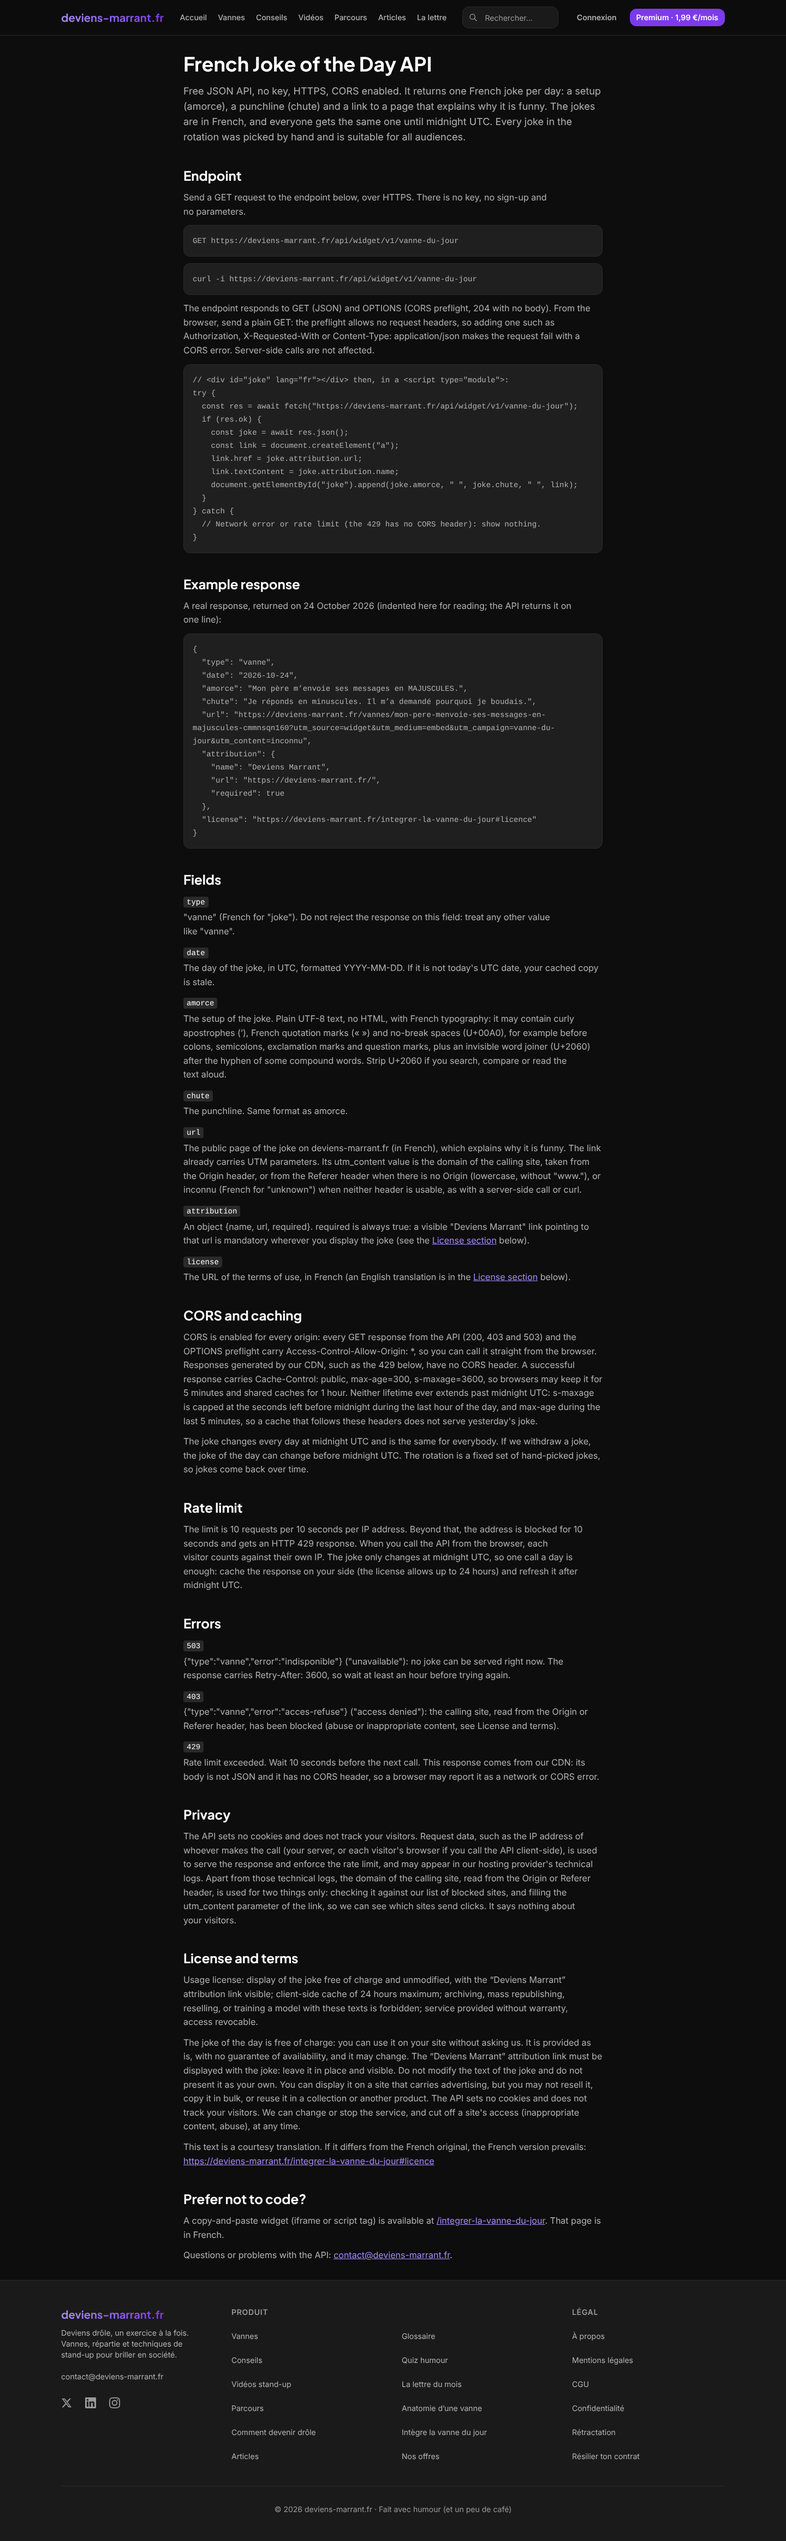
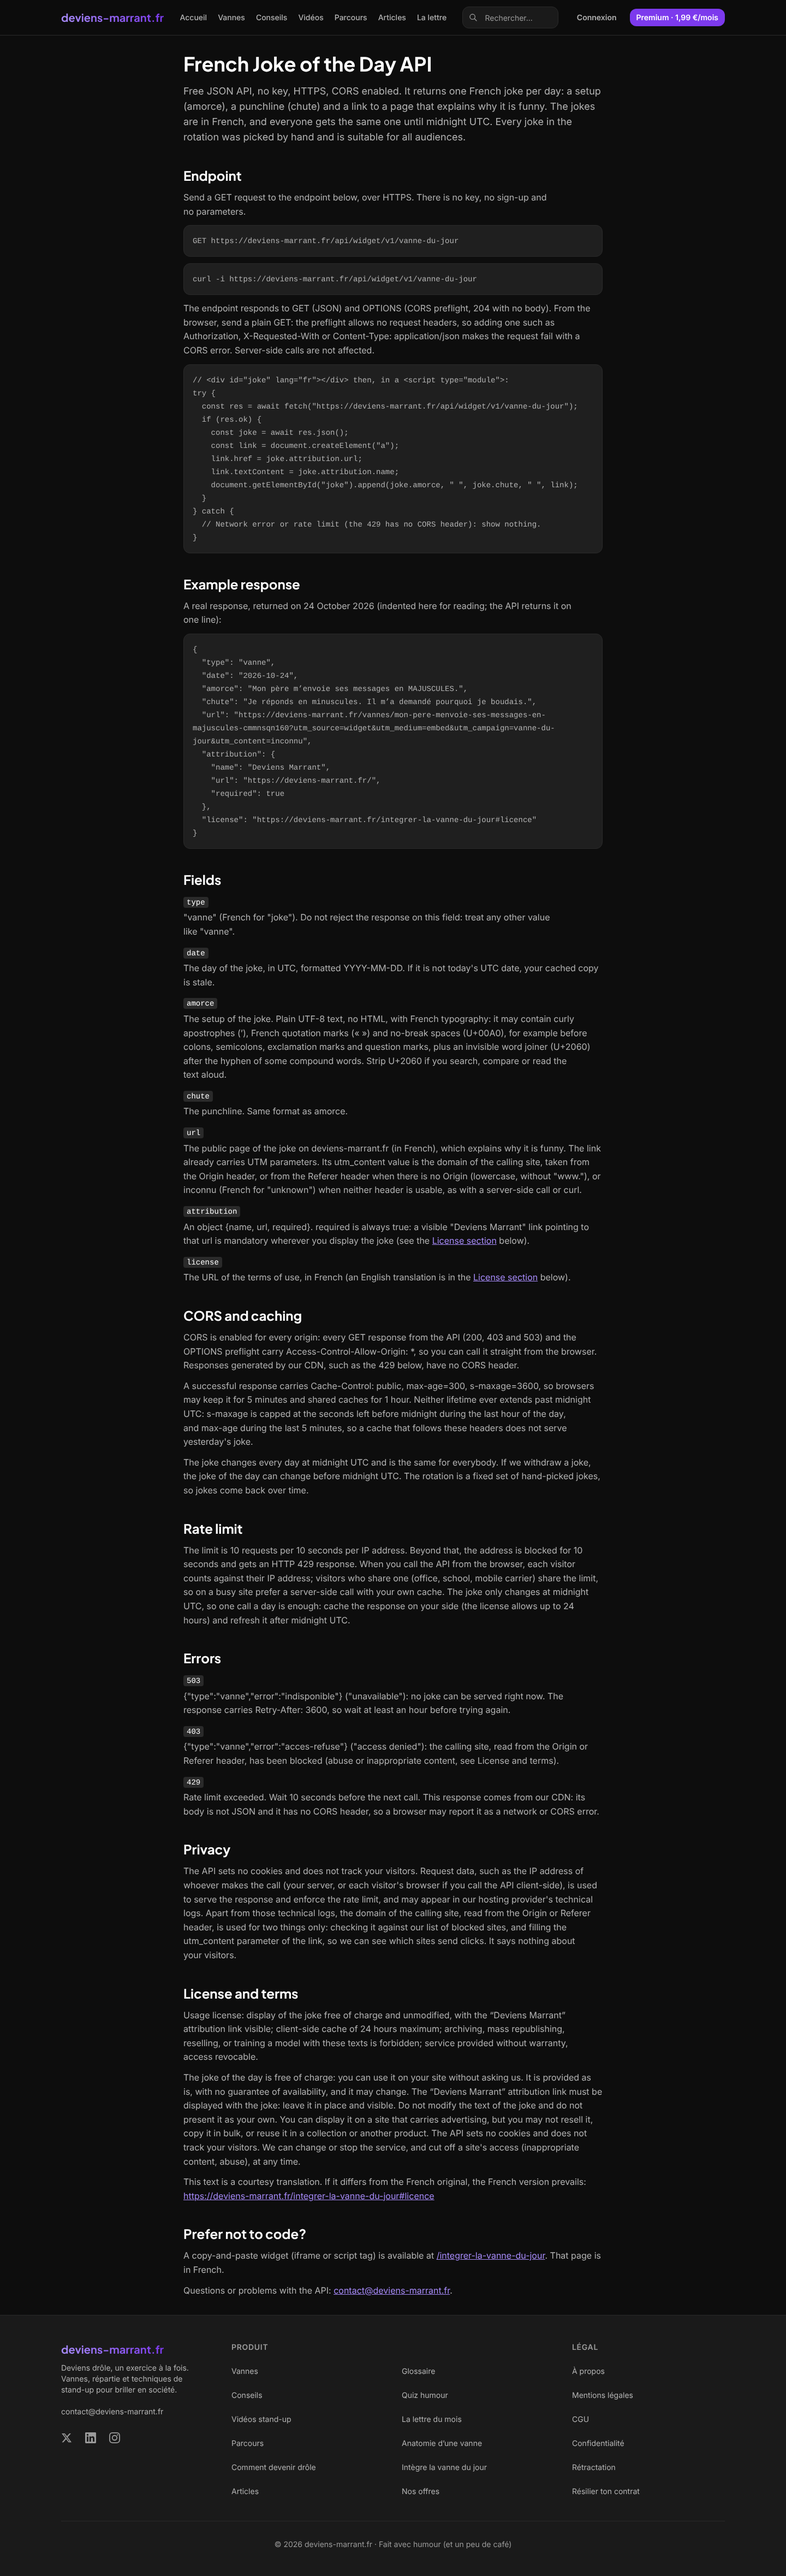
fix(widget-s22): /developers, 6e tour (IP partagée, CORS et cache en deux paragraphes)
Relecture v6 : GO 9,3/10 avant ces retouches.

Claude-Session: https://claude.ai/code/session_01YAxbXJAdESRnkaFF4w4w5d

diff --git a/apps/web/src/config/textes/developers.ts b/apps/web/src/config/textes/developers.ts
@@ -85,7 +85,11 @@ export const CHAMPS: { nom: string; description: string }[] = [
 
 /** CORS, cache, moment du changement de vanne. */
 export const TEXTE_CORS_CACHE =
-  "CORS is enabled for every origin: every GET response from the API (200, 403 and 503) and the OPTIONS preflight carry Access-Control-Allow-Origin: *, so you can call it straight from the browser. Responses generated by our CDN, such as the 429 below, have no CORS header. A successful response carries Cache-Control: public, max-age=300, s-maxage=3600, so browsers may keep it for 5 minutes and shared caches for 1 hour. Neither lifetime ever extends past midnight UTC: s-maxage is capped at the seconds left before midnight during the last hour of the day, and max-age during the last 5 minutes, so a cache that follows these headers does not serve yesterday's joke.";
+  "CORS is enabled for every origin: every GET response from the API (200, 403 and 503) and the OPTIONS preflight carry Access-Control-Allow-Origin: *, so you can call it straight from the browser. Responses generated by our CDN, such as the 429 below, have no CORS header.";
+
+/** En-têtes de cache (paragraphe à part, revue v6 AC2). */
+export const TEXTE_CACHE =
+  "A successful response carries Cache-Control: public, max-age=300, s-maxage=3600, so browsers may keep it for 5 minutes and shared caches for 1 hour. Neither lifetime ever extends past midnight UTC: s-maxage is capped at the seconds left before midnight during the last hour of the day, and max-age during the last 5 minutes, so a cache that follows these headers does not serve yesterday's joke.";
 
 /** Rotation : changement de vanne, retrait, retour des vannes (paragraphe à part, revue v3 C3). */
 export const TEXTE_ROTATION =
@@ -93,7 +97,7 @@ export const TEXTE_ROTATION =
 
 /** Limite de requêtes et conseil de cache. */
 export const TEXTE_LIMITE =
-  "The limit is 10 requests per 10 seconds per IP address. Beyond that, the address is blocked for 10 seconds and gets an HTTP 429 response. When you call the API from the browser, each visitor counts against their own IP. The joke only changes at midnight UTC, so one call a day is enough: cache the response on your side (the license allows up to 24 hours) and refresh it after midnight UTC.";
+  "The limit is 10 requests per 10 seconds per IP address. Beyond that, the address is blocked for 10 seconds and gets an HTTP 429 response. When you call the API from the browser, each visitor counts against their IP address; visitors who share one (office, school, mobile carrier) share the limit, so on a busy site prefer a server-side call with your own cache. The joke only changes at midnight UTC, so one call a day is enough: cache the response on your side (the license allows up to 24 hours) and refresh it after midnight UTC.";
 
 /**
  * Codes d'erreur, rendus en <dl> comme CHAMPS. 429 : mesuré en production, la règle

diff --git a/apps/web/src/__tests__/feature/developers-s22.test.tsx b/apps/web/src/__tests__/feature/developers-s22.test.tsx
@@ -32,6 +32,7 @@ import {
   H1,
   PAGE_TITLE,
   TEXTE_CORS_CACHE,
+  TEXTE_CACHE,
   TEXTE_ROTATION,
   TEXTE_ENDPOINT,
   TEXTE_ENDPOINT_NAVIGATEUR,
@@ -77,7 +78,7 @@ describe("page /developers", () => {
     expect(TEXTE_ROTATION).toMatch(/so jokes come back over time\.$/);
     expect(TEXTE_VIE_PRIVEE).toContain("may appear in our hosting provider's technical logs.");
     expect(TEXTE_VIE_PRIVEE).not.toContain("used only to serve");
-    for (const t of [TEXTE_INTRO, TEXTE_ENDPOINT, TEXTE_ENDPOINT_NAVIGATEUR, TEXTE_CORS_CACHE, TEXTE_ROTATION, TEXTE_VIE_PRIVEE]) expect(textes).toContain(t);
+    for (const t of [TEXTE_INTRO, TEXTE_ENDPOINT, TEXTE_ENDPOINT_NAVIGATEUR, TEXTE_CORS_CACHE, TEXTE_CACHE, TEXTE_ROTATION, TEXTE_VIE_PRIVEE]) expect(textes).toContain(t);
   });
 
   it("endpoint, curl -i, fetch en module avec contrôle de res.ok", () => {

diff --git a/apps/web/src/app/(dashboard)/developers/page.tsx b/apps/web/src/app/(dashboard)/developers/page.tsx
@@ -23,6 +23,7 @@ import {
   EXEMPLE_REPONSE,
   CHAMPS,
   TEXTE_CORS_CACHE,
+  TEXTE_CACHE,
   TEXTE_ROTATION,
   TEXTE_LIMITE,
   ERREURS,
@@ -178,6 +179,7 @@ export default function DevelopersPage() {
 
         <h2 className={H2}>{H2_CORS_CACHE}</h2>
         <p className={P}>{TEXTE_CORS_CACHE}</p>
+        <p className={P}>{TEXTE_CACHE}</p>
         <p className={P}>{TEXTE_ROTATION}</p>
 
         <h2 className={H2}>{H2_LIMITE}</h2>

diff --git a/docs/reviews/review-developers-s22-v6.md b/docs/reviews/review-developers-s22-v6.md
@@ -1,0 +1,62 @@
+# Relecture à l'aveugle : page `/developers` (API « vanne du jour »), v6, 24/10/2026
+
+Relecteur : @reviewer (relecture à l'aveugle, aucun rapport antérieur lu). Périmètre : `config/textes/developers.ts`, `app/(dashboard)/developers/page.tsx`, captures `docs/qa/captures-developers-s22/` (PC 1440, mobile 390 haut de page, mobile 390 complète), et pour vérifier l'exactitude : `api/widget/v1/vanne-du-jour/route.ts`, `lib/widget/vanne-du-jour.ts`, `config/widget-vanne-du-jour.ts`, `lib/fr-typo.ts`, plus les faits mesurés en production le 24/10/2026.
+Hors périmètre (décisions du fondateur, non re-questionnées) : traduction de la licence, pas de bouton Copy, U+2060 documenté, preflight sans en-têtes autorisés, `<html lang="fr">` global, ordre des sections, mise en forme des blocs de code et coupures de ligne visuelles.
+
+## Verdict : **GO** (9,3/10, zéro bloquant)
+
+| # | Critère | Note | Justification courte |
+|---|---|---|---|
+| 1 | Exactitude technique | 9,5 | J'ai confronté chaque affirmation au code ou aux mesures de production : aucune n'est fausse. Il reste deux simplifications (IP partagée, compteur par IP et datacenter), voir AC1 et O1. |
+| 2 | Clarté pour un dev anglophone en 20 s | 9 | L'intro donne tout (free, no key, HTTPS, CORS, 1/jour, français, minuit UTC). Sur mobile, le bloc `GET` est visible sans scroller. Le paragraphe CORS/cache est dense (AC2). |
+| 3 | Complétude pour l'annuaire | 9 | Auth, HTTPS, CORS, limite, exemple réel, 7 champs, erreurs, vie privée, licence, contact : tout y est. La structure JSON est stable, ce que note le robot de santé. Manquent seulement HEAD/405 (O2). |
+| 4 | Exemples corrects et sûrs | 9,5 | `curl -i` est pertinent. Le `fetch` est sûr : nœuds texte via `append`, aucun `innerHTML`, try/catch qui couvre le 429 sans CORS, `lang="fr"`, lien d'attribution visible, contexte `type="module"` signalé. Le JSON correspond à `toWidgetApiPayload` (ordre et 7 champs). |
+| 5 | Règles maison | 10 | Grep `[—–]` sur `developers.ts` : 0 résultat. Aucun concurrent ni fournisseur nommé (« our CDN »). « no guarantee of availability ». Pas de feuille de route : la valeur `replique` est neutralisée par « treat any other value like "vanne" ». Aucun chiffre inventé. |
+| 6 | SEO de base | 9 | Le titre fait 52 caractères et la description 141. Canonical `/developers`, `og:locale en_US`, `lang="en"` sur le conteneur. JSON-LD WebPage + WebAPI (documentation, termsOfService, offre à 0). La page est dans le sitemap et reçoit un lien `hrefLang="en"` depuis `/integrer-la-vanne-du-jour`. |
+
+## Vérification d'exactitude (affirmation par affirmation)
+
+| Affirmation de la page | Source | Verdict |
+|---|---|---|
+| GET en JSON, OPTIONS en 204 sans corps | `route.ts:70-72` | Exact |
+| ACAO `*` sur 200, 403, 503 et preflight | `route.ts:21-31`, `BASE_HEADERS` sur toutes les réponses JSON | Exact |
+| Le 429 du CDN n'a ni CORS ni JSON | mesure en production | Exact |
+| Le preflight n'autorise aucun en-tête : Authorization, X-Requested-With et `Content-Type: application/json` échouent | absence d'`Access-Control-Allow-Headers` (`route.ts:21-25`). Ces trois en-têtes déclenchent un preflight. | Exact |
+| `public, max-age=300, s-maxage=3600`, s-maxage plafonné à minuit dans la dernière heure, max-age dans les 5 dernières minutes | `route.ts:58-62`, `widgetSharedMaxAge` | Exact |
+| La vanne change à minuit UTC, peut changer en cas de retrait, revient avec le temps | `widgetDateKey`, `dayNumber % eligible.length`, empreinte de liste dans la clé de cache | Exact |
+| `utm_content` = Origin, sinon Referer, en minuscules, sans `www.`, sinon `inconnu` | `hostFromHeader`, `withWidgetUtm` | Exact (Origin illisible ou `null` : repli sur Referer, couvert par « neither header is usable ») |
+| 503 `indisponible` + `Retry-After: 3600` ; 403 `acces-refuse` selon Origin/Referer | `route.ts:33-52` | Exact |
+| Insécables U+00A0, apostrophes courbes, « », U+2060 après le trait d'union de certains composés | `frTypo` (`fr-typo.ts:77-104`) | Exact (la liste est introduite par « for example ») |
+| La page liée « explains why it is funny » | `VALIDATED_JOKE_WHERE.comedyTechnique not null` ; bloc « Pourquoi ça marche » public sur `/vannes/[slug]` | Exact |
+| « picked by hand, suitable for all audiences » | `WIDGET_JOKE_IDS` : 93 vannes gardées par deux relecteurs tout public, catégories exclues | Exact, sourcé |
+| Aucun cookie ; logs techniques de l'hébergeur | aucun `Set-Cookie` mesuré ; journaux Workers activés | Exact |
+| Réponse renvoyée sur une ligne | `NextResponse.json` (compact) | Exact |
+| 10 req / 10 s par IP, blocage 10 s, 429 | règle CDN mesurée (clé IP + datacenter) | Exact pour l'usage (borne prudente), voir O1 |
+
+## Corrections
+
+### Bloquant
+Aucun.
+
+### À corriger (n'empêche pas le GO)
+- **AC1. IP partagée** (`TEXTE_LIMITE`, developers.ts:96). « each visitor counts against their own IP » laisse croire à un compteur par visiteur. Or des visiteurs derrière une même IP publique (bureau, école, NAT d'opérateur mobile) partagent les 10 requêtes, ce qui compte pour un site à fort trafic qui appelle l'API côté navigateur. Proposition : « When you call the API from the browser, each visitor counts against their IP address; visitors who share one (office, school, mobile carrier) share the limit, so on a busy site prefer a server-side call with your own cache. » Agent : @copywriter.
+- **AC2. Paragraphe CORS et cache trop dense** (`TEXTE_CORS_CACHE`, 1 paragraphe d'environ 110 mots). Le dev pressé y cherche deux réponses (« can I call it from the browser? », « how long can I cache? »). Proposition : couper en deux paragraphes, CORS puis Cache-Control, sans changer un mot. L'ordre des sections ne bouge pas. Agent : @copywriter.
+
+### Optionnel
+- **O1. Compteur par IP et datacenter.** La règle compte par IP et par datacenter. Une IP qui touche deux datacenters peut donc dépasser 10/10 s. Présenter la limite comme « per IP address » reste une borne sûre (qui la respecte n'est jamais bloqué) : je ne demande pas de correction, sauf si l'annuaire exige la valeur exacte.
+- **O2. Méthodes non gérées.** HEAD est implémenté automatiquement par Next.js à partir de GET. POST, PUT et les autres méthodes reçoivent 405, sans CORS. Une demi-phrase dans `ERREURS` ou `TEXTE_ENDPOINT_NAVIGATEUR` éviterait une surprise.
+- **O3. Renvoi non cliquable dans l'erreur 403.** « see License and terms » n'est pas un lien, alors que les champs `attribution` et `license` renvoient à `#license`. Il suffit de passer `erreur.description` par `AvecRenvoiLicence`, en harmonisant le libellé (`page.tsx:193`).
+- **O4. Uniformité entre datacenters.** Si une vanne de la liste sort du pool validé en base sans nouveau déploiement, les datacenters déjà en cache gardent l'ancienne vanne et les autres recalculent sur le nouveau modulo. « the same for everybody » peut alors être faux quelques heures. C'est rare et déjà couvert en substance par « If we withdraw a joke… ». À garder en tête plutôt qu'à corriger.
+- **O5. JSON-LD WebAPI.** On pourrait ajouter `inLanguage: "en"` (pour la doc) et `url` vers l'endpoint. Gain marginal.
+
+## Captures (rendu)
+- PC 1440 : hiérarchie nette H1 > H2, blocs de code lisibles, liens soulignés, aucun débordement. Présentation propre, alignée, aérée, dans l'identité sombre du site.
+- Mobile 390 : le bloc endpoint est visible au-dessus de la ligne de flottaison. Les coupures dans les URL et le code ont été acceptées par le fondateur. Aucun débordement horizontal, et les `<dt>` des champs se repèrent bien.
+- Je ne vois ni JSON brut hors bloc de code, ni lien mort, ni `undefined` affiché.
+
+## Top 3
+1. AC1 : préciser que les visiteurs qui partagent une IP partagent la limite, et orienter les sites à fort trafic vers l'appel serveur.
+2. AC2 : couper le paragraphe CORS et cache en deux.
+3. O3 : rendre cliquable le renvoi vers la licence dans l'erreur 403.
+
+Sources externes : [Free Public APIs, about](https://freepublicapis.com/about) (robot quotidien, score de santé fondé sur la stabilité de la structure JSON, les erreurs et la vitesse).
